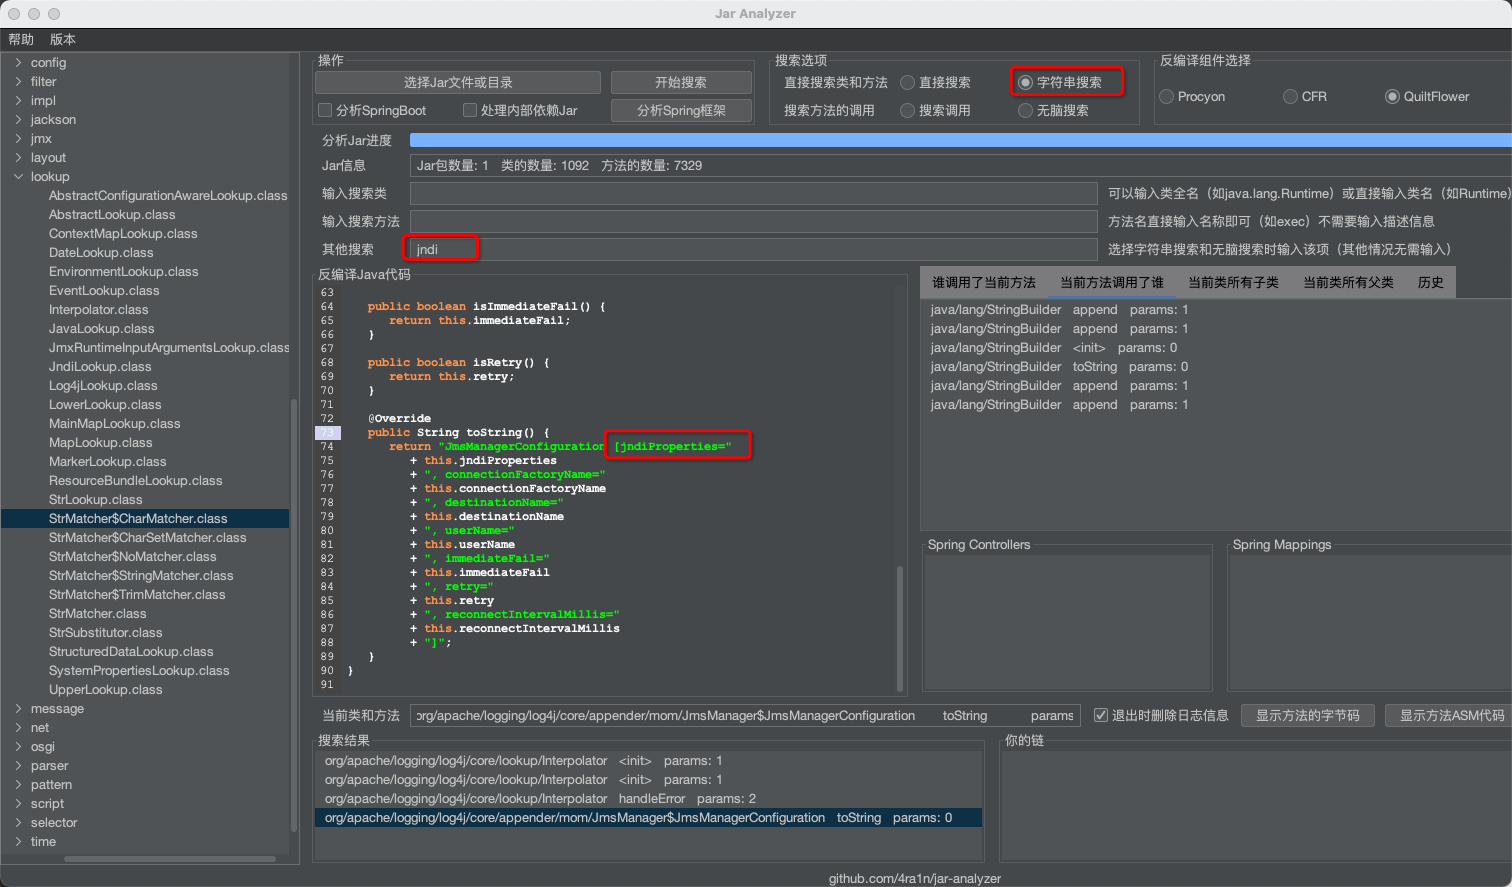
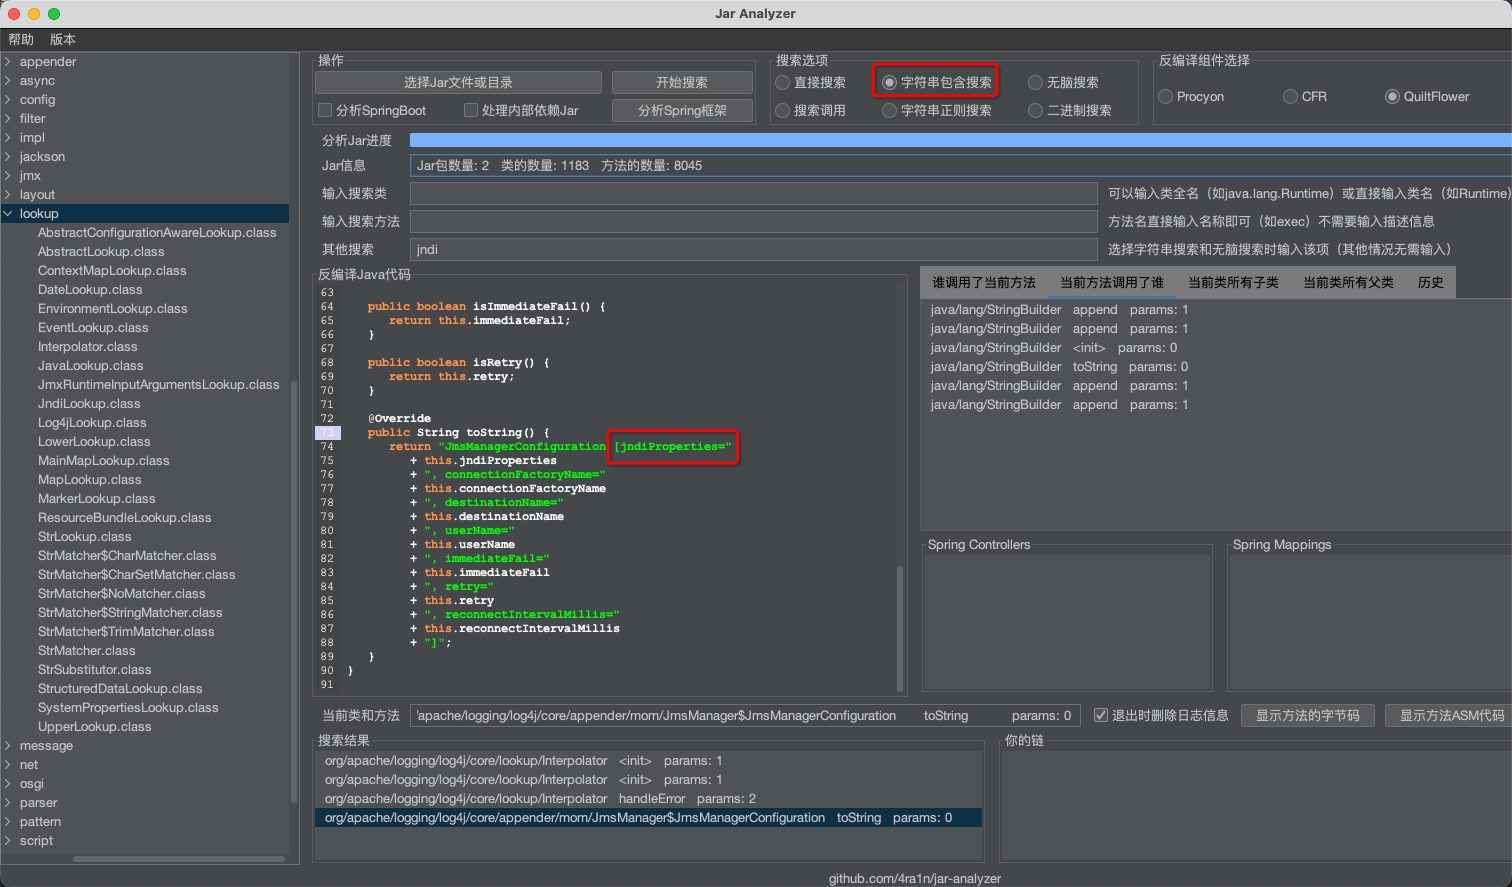
new ui

diff --git a/src/main/java/com/chaitin/jar/analyzer/form/JarAnalyzerForm.java b/src/main/java/com/chaitin/jar/analyzer/form/JarAnalyzerForm.java
@@ -95,8 +95,6 @@ public class JarAnalyzerForm {
     public JRadioButton callSearchRadioButton;
     public JRadioButton directSearchRadioButton;
     public JPanel searchSelPanel;
-    public JLabel callSearchLabel;
-    public JLabel directSearchLabel;
     public JPanel actionPanel;
     public JButton analyzeSpringButton;
     public JPanel springPanel;
@@ -117,6 +115,8 @@ public class JarAnalyzerForm {
     private JPanel treePanel;
     private FileTree trees;
     private JScrollPane treeScroll;
+    private JRadioButton binaryRadioButton;
+    private JRadioButton strRegexRadioButton;
     public static List<SpringController> controllers = new ArrayList<>();
 
     public static final DefaultListModel<ResObj> historyDataList = new DefaultListModel<>();
@@ -938,23 +938,23 @@ public class JarAnalyzerForm {
         callSearchRadioButton = new JRadioButton();
         callSearchRadioButton.setBackground(new Color(-12828863));
         callSearchRadioButton.setText("搜索调用");
-        searchSelPanel.add(callSearchRadioButton, new GridConstraints(1, 1, 1, 2, GridConstraints.ANCHOR_WEST, GridConstraints.FILL_NONE, GridConstraints.SIZEPOLICY_CAN_SHRINK | GridConstraints.SIZEPOLICY_CAN_GROW, GridConstraints.SIZEPOLICY_FIXED, null, null, null, 0, false));
-        callSearchLabel = new JLabel();
-        callSearchLabel.setText("   搜索方法的调用");
-        searchSelPanel.add(callSearchLabel, new GridConstraints(1, 0, 1, 1, GridConstraints.ANCHOR_WEST, GridConstraints.FILL_NONE, GridConstraints.SIZEPOLICY_FIXED, GridConstraints.SIZEPOLICY_FIXED, null, null, null, 0, false));
-        directSearchLabel = new JLabel();
-        directSearchLabel.setText("   直接搜索类和方法");
-        searchSelPanel.add(directSearchLabel, new GridConstraints(0, 0, 1, 1, GridConstraints.ANCHOR_WEST, GridConstraints.FILL_NONE, GridConstraints.SIZEPOLICY_FIXED, GridConstraints.SIZEPOLICY_FIXED, null, null, null, 0, false));
+        searchSelPanel.add(callSearchRadioButton, new GridConstraints(1, 0, 1, 2, GridConstraints.ANCHOR_WEST, GridConstraints.FILL_NONE, GridConstraints.SIZEPOLICY_CAN_SHRINK | GridConstraints.SIZEPOLICY_CAN_GROW, GridConstraints.SIZEPOLICY_FIXED, null, null, null, 0, false));
         directSearchRadioButton = new JRadioButton();
         directSearchRadioButton.setBackground(new Color(-12828863));
         directSearchRadioButton.setText("直接搜索");
-        searchSelPanel.add(directSearchRadioButton, new GridConstraints(0, 1, 1, 2, GridConstraints.ANCHOR_WEST, GridConstraints.FILL_NONE, GridConstraints.SIZEPOLICY_CAN_SHRINK | GridConstraints.SIZEPOLICY_CAN_GROW, GridConstraints.SIZEPOLICY_FIXED, null, null, null, 0, false));
+        searchSelPanel.add(directSearchRadioButton, new GridConstraints(0, 0, 1, 2, GridConstraints.ANCHOR_WEST, GridConstraints.FILL_NONE, GridConstraints.SIZEPOLICY_CAN_SHRINK | GridConstraints.SIZEPOLICY_CAN_GROW, GridConstraints.SIZEPOLICY_FIXED, null, null, null, 0, false));
         strRadioButton = new JRadioButton();
-        strRadioButton.setText("字符串搜索");
-        searchSelPanel.add(strRadioButton, new GridConstraints(0, 3, 1, 1, GridConstraints.ANCHOR_WEST, GridConstraints.FILL_NONE, GridConstraints.SIZEPOLICY_CAN_SHRINK | GridConstraints.SIZEPOLICY_CAN_GROW, GridConstraints.SIZEPOLICY_FIXED, null, null, null, 0, false));
+        strRadioButton.setText("字符串包含搜索");
+        searchSelPanel.add(strRadioButton, new GridConstraints(0, 2, 1, 1, GridConstraints.ANCHOR_WEST, GridConstraints.FILL_NONE, GridConstraints.SIZEPOLICY_CAN_SHRINK | GridConstraints.SIZEPOLICY_CAN_GROW, GridConstraints.SIZEPOLICY_FIXED, null, null, null, 0, false));
         greatRadioButton = new JRadioButton();
         greatRadioButton.setText("无脑搜索");
-        searchSelPanel.add(greatRadioButton, new GridConstraints(1, 3, 1, 1, GridConstraints.ANCHOR_WEST, GridConstraints.FILL_NONE, GridConstraints.SIZEPOLICY_CAN_SHRINK | GridConstraints.SIZEPOLICY_CAN_GROW, GridConstraints.SIZEPOLICY_FIXED, null, null, null, 0, false));
+        searchSelPanel.add(greatRadioButton, new GridConstraints(0, 3, 1, 1, GridConstraints.ANCHOR_WEST, GridConstraints.FILL_NONE, GridConstraints.SIZEPOLICY_CAN_SHRINK | GridConstraints.SIZEPOLICY_CAN_GROW, GridConstraints.SIZEPOLICY_FIXED, null, null, null, 0, false));
+        binaryRadioButton = new JRadioButton();
+        binaryRadioButton.setText("二进制搜索");
+        searchSelPanel.add(binaryRadioButton, new GridConstraints(1, 3, 1, 1, GridConstraints.ANCHOR_WEST, GridConstraints.FILL_NONE, GridConstraints.SIZEPOLICY_CAN_SHRINK | GridConstraints.SIZEPOLICY_CAN_GROW, GridConstraints.SIZEPOLICY_FIXED, null, null, null, 0, false));
+        strRegexRadioButton = new JRadioButton();
+        strRegexRadioButton.setText("字符串正则搜索");
+        searchSelPanel.add(strRegexRadioButton, new GridConstraints(1, 2, 1, 1, GridConstraints.ANCHOR_WEST, GridConstraints.FILL_NONE, GridConstraints.SIZEPOLICY_CAN_SHRINK | GridConstraints.SIZEPOLICY_CAN_GROW, GridConstraints.SIZEPOLICY_FIXED, null, null, null, 0, false));
         actionPanel = new JPanel();
         actionPanel.setLayout(new GridLayoutManager(2, 3, new Insets(0, 0, 0, 0), -1, -1));
         actionPanel.setBackground(new Color(-12828863));
@@ -1162,6 +1162,8 @@ public class JarAnalyzerForm {
         buttonGroup.add(callSearchRadioButton);
         buttonGroup.add(strRadioButton);
         buttonGroup.add(greatRadioButton);
+        buttonGroup.add(binaryRadioButton);
+        buttonGroup.add(strRegexRadioButton);
     }
 
     /**
